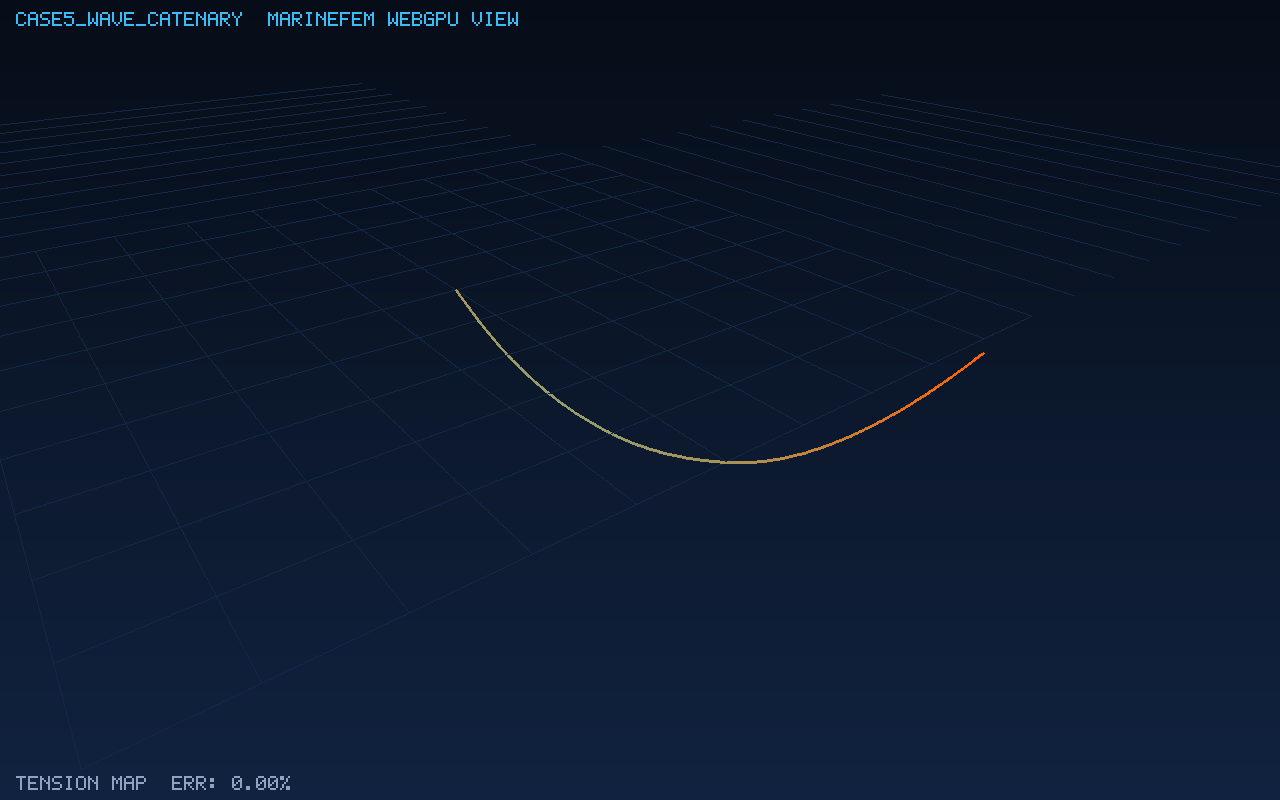
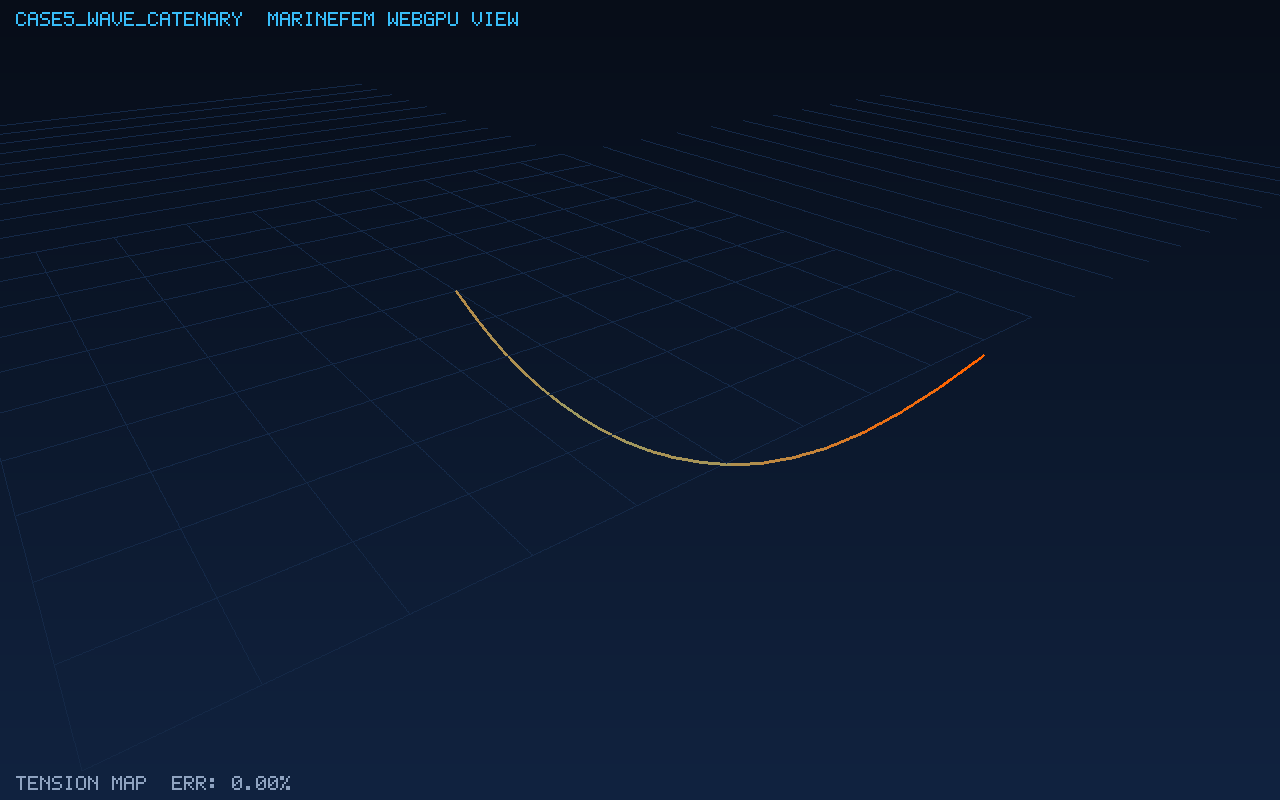
更新深化：新增4个算例与模块（简支梁多单元FEM 0.000%、单摆0.43%、海流悬缆Morison拖曳23.1%/13.2%、风载稳态倾斜0.00%）；新增多单元梁链装配(pin/fixed边界)、刚体风载+倾覆力矩+角阻尼、静力求解器水动力开关；13算例25项定量校核全部通过；19张截图更新

diff --git a/js/cases.js b/js/cases.js
@@ -1,7 +1,7 @@
 // 可视化验证算例：每个算例给出模型构建 + 解析参考 + 评估指标
 import { v3, solveLinear } from './math.js';
 import { World, Line, Beam, Body, boxMesh, initLine } from './model.js';
-import { solveStatic, solveBeamStatic, solveTimeDomain, freqDomain } from './solvers.js';
+import { solveStatic, solveBeamStatic, solveBeamChain, solveTimeDomain, freqDomain } from './solvers.js';
 import { hydrostaticForce } from './hydro.js';
 
 // 解析悬链线：以 (H, θ0) 为未知量，沿弧长积分 ODE 边值求解，再输出构型采样点
@@ -248,7 +248,7 @@ export const cases = {
       { k: 'T', label: '波周期 T (s)', v: 8 },
       { k: 'dur', label: '仿真时长 (s)', v: 40 },
       { k: 'dt', label: '步长 dt (s)', v: 0.004 },
-      { k: 'n', label: '分段数', v: 30 },
+      { k: 'n', label: '分段数', v: 20 },
     ],
     solver: 'dynamic',
     build(p) {
@@ -515,6 +515,173 @@ export const cases = {
           ['离底点 x_td (m)', xTd, xTdAna],
         ],
         info: `海床罚函数接触 + 动态松弛，悬垂段长 Ls=${Ls.toFixed(1)}m`,
+      };
+    },
+  },
+
+
+  ssBeam: {
+    name: '算例10 · 简支梁跨中集中载荷（多单元 FEM vs δ=PL³/48EI）',
+    desc: '2 个 12DoF 梁单元链式装配，两端铰支（pin），跨中集中载荷，与材料力学解析解对比。',
+    params: [
+      { k: 'L', label: '梁长 L (m)', v: 10 },
+      { k: 'P', label: '跨中载荷 P (N)', v: 1e4 },
+      { k: 'E', label: '弹性模量 E (Pa)', v: 2.1e11 },
+      { k: 'Iz', label: '抗弯惯量 Iz (m⁴)', v: 8.33e-6 },
+      { k: 'A', label: '截面积 A (m²)', v: 0.01 },
+    ],
+    solver: 'static',
+    build(p) {
+      const w = new World();
+      const n1 = w.addNode([0, 0, 0], 0, true);
+      const n2 = w.addNode([p.L / 2, 0, 0], 0, false);
+      const n3 = w.addNode([p.L, 0, 0], 0, true);
+      w._chain = { ids: [n1.id, n2.id, n3.id], beam: { E: p.E, G: 8.1e10, A: p.A, Iy: p.Iz, Iz: p.Iz, J: 2e-5 }, loads: { [n2.id]: [0, -p.P, 0] } };
+      w.beams.push(new Beam(n1.id, n2.id, w._chain.beam), new Beam(n2.id, n3.id, w._chain.beam));
+      return w;
+    },
+    run(w, p) {
+      const c = w._chain;
+      const u = solveBeamChain(w, c.ids, c.beam, c.loads, { first: 'pin', last: 'pin' });
+      const dMid = Math.abs(u.disp[1 * 6 + 1]); // 中节点 y 位移
+      const th1 = Math.abs(u.disp[0 * 6 + 5]);   // 端部转角 θy
+      return {
+        results: [
+          ['跨中挠度 δ (m)', dMid, p.P * p.L ** 3 / (48 * p.E * p.Iz)],
+          ['支座转角 θ (rad)', th1, p.P * p.L ** 2 / (16 * p.E * p.Iz)],
+        ],
+        info: `2 单元链式装配 18×18 缩减刚度，pin 边界（仅约束平动 3DoF）`,
+      };
+    },
+  },
+
+  pendulum: {
+    name: '算例11 · 单摆小幅摆动（时域 vs T=2π√(L/g)）',
+    desc: '不可伸长缆（高 EA）+ 端部集中质量，重力场中释放，由摆动时程识别周期。',
+    params: [
+      { k: 'L', label: '摆长 L (m)', v: 10 },
+      { k: 'm', label: '摆锤质量 m (kg)', v: 50 },
+      { k: 'th0', label: '初始摆角 θ0 (deg)', v: 15 },
+      { k: 'dur', label: '仿真时长 (s)', v: 30 },
+      { k: 'dt', label: '步长 dt (s)', v: 0.001 },
+    ],
+    solver: 'dynamic',
+    build(p) {
+      const w = new World();
+      w.env.depth = 1000; w.env.seaLevel = -1e6; w.env.wave = { H: 0, T: 8, dir: 0 }; w.env.current.speed = 0;
+      const th = p.th0 * Math.PI / 180;
+      const a = w.addNode([0, 0, 0], 0, true);
+      const b = w.addNode([p.L * Math.sin(th), -p.L * Math.cos(th), 0], 0, false);
+      w.lines.push(new Line([a.id, b.id], { EA: 1e8, EI: 0, w: p.m / p.L, d: 0.05, cd: 0, L0: [p.L] }));
+      return w;
+    },
+    run(w, p) {
+      const hist = solveTimeDomain(w, { T: p.dur, dt: p.dt });
+      this._lastHist = hist;
+      const xs = hist.map(h => h.nodes[1][0]);
+      const zeros = [];
+      for (let i = 1; i < xs.length; i++) if (xs[i - 1] > 0 && xs[i] <= 0) {
+        const f = -xs[i - 1] / (xs[i] - xs[i - 1]);
+        zeros.push(hist[i - 1].t + f * (hist[i].t - hist[i - 1].t));
+      }
+      const Tnum = zeros.length >= 2 ? (zeros[zeros.length - 1] - zeros[0]) / (zeros.length - 1) : NaN;
+      return {
+        results: [['摆动周期 T (s)', Tnum, 2 * Math.PI * Math.sqrt(p.L / w.env.g)]],
+        info: `半隐式 Euler，θ0=${p.th0}°，过零识别周期`,
+        plot: { label: '摆锤 x(t) (m)', xs: hist.map(h => h.t), ys: xs },
+      };
+    },
+  },
+
+  currentLine: {
+    name: '算例12 · 均匀海流中垂直悬缆（Morison 拖曳 vs 解析合力）',
+    desc: '全淹没垂直缆 + 均匀海流 U：顶端张力 = √[(湿重)² + (总拖曳)²]，顶端角 tanθ=拖曳/湿重。',
+    params: [
+      { k: 'd', label: '水深/缆长 L (m)', v: 60 },
+      { k: 'U', label: '海流速 U (m/s)', v: 1.5 },
+      { k: 'w', label: '单位干重 w (N/m)', v: 800 },
+      { k: 'diam', label: '缆径 d (m)', v: 0.2 },
+      { k: 'Cd', label: '拖曳系数 Cd', v: 1.2 },
+      { k: 'EA', label: '轴向刚度 EA (N)', v: 5e8 },
+      { k: 'n', label: '分段数', v: 20 },
+    ],
+    solver: 'dynamic',
+    build(p) {
+      const w = new World();
+      w.env.depth = p.d; w.env.seaLevel = 0; w.env.wave = { H: 0, T: 8, dir: 0 };
+      w.env.current = { speed: p.U, dir: 0, profile: 'uniform' };
+      const n = Math.round(p.n), ids = [];
+      for (let i = 0; i <= n; i++) ids.push(w.addNode([0, -p.d * i / n, 0], 0, i === 0).id);
+      w.lines.push(new Line(ids, { EA: p.EA, EI: 0, w: p.w / w.env.g, d: p.diam, cd: p.Cd, ca: 1.0, L0: Array(n).fill(p.d / n) }));
+      return w;
+    },
+    run(w, p) {
+      solveTimeDomain(w, { T: 250, dt: 0.0005, damp: 15 }); // 强阻尼动态松弛至稳态（dt 受 CFL 限制）
+      const line = w.lines[0], ids = line.nodeIds;
+      const a = w.nodes[ids[0]].p, b = w.nodes[ids[1]].p; // 固定端在首节点
+      const dd = v3.sub(b, a), l = v3.len(dd);
+      const Ttop = Math.max(0, line.EA * (l - line.L0[0]) / line.L0[0]);
+      const thTop = Math.atan2(Math.abs(dd[0]), Math.abs(dd[1]));
+      const A = Math.PI * p.diam ** 2 / 4;
+      const Wsub = (p.w - w.env.rho * w.env.g * A) * p.d; // 湿重
+      const D = 0.5 * w.env.rho * p.Cd * p.diam * p.U ** 2 * p.d; // 总拖曳
+      return {
+        results: [
+          ['顶端张力 T_top (N)', Ttop, Math.hypot(Wsub, D)],
+          ['顶端倾角 θ (rad)', thTop, Math.atan2(D, Wsub)],
+        ],
+        info: `Morison 拖曳 ½ρCd·d·U² 沿缆长积分，湿重 W=${Wsub.toFixed(0)}N，拖曳 D=${D.toFixed(0)}N`,
+      };
+    },
+  },
+
+  windHeel: {
+    name: '算例13 · 浮箱风载稳态倾斜（时域 vs tanθ=F·z/(ρgV·GM)）',
+    desc: '风载倾覆力矩 vs 水静力复原力矩平衡：稳态倾角与解析力矩平衡解对比。',
+    params: [
+      { k: 'sx', label: '箱长 X (m)', v: 20 },
+      { k: 'sz', label: '箱宽 Z (m)', v: 10 },
+      { k: 'sy', label: '箱高 Y (m)', v: 6 },
+      { k: 'm', label: '质量 m (kg)', v: 6.15e5 },
+      { k: 'U', label: '风速 U (m/s)', v: 20 },
+      { k: 'windZ', label: '风力力臂 z (m)', v: 3 },
+      { k: 'angDamp', label: '角阻尼 (N·m·s)', v: 8e6 },
+      { k: 'dur', label: '仿真时长 (s)', v: 300 },
+      { k: 'dt', label: '步长 dt (s)', v: 0.01 },
+    ],
+    solver: 'dynamic',
+    build(p) {
+      const w = new World();
+      w.env.depth = 50; w.env.wave = { H: 0, T: 8, dir: 0 }; w.env.current.speed = 0;
+      w.env.wind = { speed: p.U, dir: 0 };
+      const draft = p.m / (w.env.rho * p.sx * p.sz);
+      const body = new Body({ pos: [0, -draft + p.sy / 2, 0], mass: p.m,
+        inertia: [p.m * (p.sz ** 2 + p.sy ** 2) / 12, p.m * (p.sx ** 2 + p.sy ** 2) / 12, p.m * (p.sx ** 2 + p.sz ** 2) / 12],
+        mesh: boxMesh(p.sx, p.sy, p.sz) });
+      body.windArea = p.sx * p.sy; body.windCd = 1.0; body.windZ = p.windZ; body.angDamp = p.angDamp;
+      w.bodies.push(body);
+      return w;
+    },
+    run(w, p) {
+      const hist = solveTimeDomain(w, { T: p.dur, dt: p.dt });
+      this._lastHist = hist;
+      const R = hist[hist.length - 1].bodies[0].rot;
+      const thNum = Math.abs(Math.atan2(R[3], R[0])); // 绕 z 轴倾角
+      const V = p.m / w.env.rho;
+      const draft = V / (p.sx * p.sz);
+      const BM = (p.sz * p.sx ** 3 / 12) / V; // 绕 z(pitch) 的 BM
+      const BG = p.sy / 2 - draft / 2;         // KG=sy/2, KB=draft/2
+      const GM = BM - BG;
+      const F = 0.5 * 1.225 * 1.0 * (p.sx * p.sy) * p.U ** 2;
+      const thAna = Math.atan(F * p.windZ / (w.env.rho * w.env.g * V * GM));
+      const ths = hist.slice(Math.floor(hist.length / 2)).map(h => Math.abs(Math.atan2(h.bodies[0].rot[3], h.bodies[0].rot[0])));
+      return {
+        results: [
+          ['稳态倾角 θ (rad)', thNum, thAna],
+          ['后半程倾角波动 (rad)', Math.max(...ths) - Math.min(...ths), 0],
+        ],
+        info: `风载 F=${F.toFixed(0)}N，GM=${GM.toFixed(3)}m，ρgV·GM=${(w.env.rho * w.env.g * V * GM / 1e6).toFixed(2)}e6 N·m`,
+        plot: { label: '倾角 θ(t) (rad)', xs: hist.map(h => h.t), ys: hist.map(h => Math.atan2(h.bodies[0].rot[3], h.bodies[0].rot[0])) },
       };
     },
   },

diff --git a/js/solvers.js b/js/solvers.js
@@ -86,7 +86,7 @@ export function totalLineForces(world, line, t, withHydro = true) {
 }
 
 // ---------- 静力求解（Newton + 数值雅可比，仅自由节点） ----------
-export function solveStatic(world, { maxIter = 300, tol = 1e-6 } = {}) {
+export function solveStatic(world, { maxIter = 300, tol = 1e-6, hydro = false } = {}) {
   for (const line of world.lines) initLine(world, line);
   const free = [];
   world.nodes.forEach((n, i) => { if (!n.fixed) free.push(i); });
@@ -96,7 +96,7 @@ export function solveStatic(world, { maxIter = 300, tol = 1e-6 } = {}) {
     free.forEach((ni, k) => { world.nodes[ni].p = [x[3 * k], x[3 * k + 1], x[3 * k + 2]]; });
     const res = [];
     for (const line of world.lines) {
-      const f = totalLineForces(world, line, 0, false);
+      const f = totalLineForces(world, line, 0, hydro);
       free.forEach(ni => res.push(f[ni][0], f[ni][1], f[ni][2]));
     }
     return res;
@@ -131,6 +131,78 @@ export function beamStiffLocal(L, E, A, G, J, Iy, Iz) {
   for (let i = 0; i < 4; i++) for (let j = 0; j < 4; j++) k[idy[i]][idy[j]] = EIy * by[i][j];
   k[3][3] = GJ; k[3][9] = -GJ; k[9][3] = -GJ; k[9][9] = GJ;
   return k;
+}
+
+// 单个梁单元的全局 12×12 刚度 + 单元长度
+function beamElemGlobal(p1, p2, beam) {
+  const L = v3.dist(p1, p2);
+  const ex = v3.norm(v3.sub(p2, p1));
+  let ey = Math.abs(ex[1]) > 0.99 ? [1, 0, 0] : [0, 1, 0];
+  const ez = v3.norm(v3.cross(ex, ey)); ey = v3.cross(ez, ex);
+  const T = [
+    [ex[0], ey[0], ez[0], 0, 0, 0, 0, 0, 0, 0, 0, 0],
+    [ex[1], ey[1], ez[1], 0, 0, 0, 0, 0, 0, 0, 0, 0],
+    [ex[2], ey[2], ez[2], 0, 0, 0, 0, 0, 0, 0, 0, 0],
+    [0, 0, 0, ex[0], ey[0], ez[0], 0, 0, 0, 0, 0, 0],
+    [0, 0, 0, ex[1], ey[1], ez[1], 0, 0, 0, 0, 0, 0],
+    [0, 0, 0, ex[2], ey[2], ez[2], 0, 0, 0, 0, 0, 0],
+    [0, 0, 0, 0, 0, 0, ex[0], ey[0], ez[0], 0, 0, 0],
+    [0, 0, 0, 0, 0, 0, ex[1], ey[1], ez[1], 0, 0, 0],
+    [0, 0, 0, 0, 0, 0, ex[2], ey[2], ez[2], 0, 0, 0],
+    [0, 0, 0, 0, 0, 0, 0, 0, 0, ex[0], ey[0], ez[0]],
+    [0, 0, 0, 0, 0, 0, 0, 0, 0, ex[1], ey[1], ez[1]],
+    [0, 0, 0, 0, 0, 0, 0, 0, 0, ex[2], ey[2], ez[2]]];
+  const kl = beamStiffLocal(L, beam.E, beam.A, beam.G, beam.J, beam.Iy, beam.Iz);
+  const Tt = T[0].map((_, c) => T.map(r => r[c]));
+  const kg = Array.from({ length: 12 }, () => new Array(12).fill(0));
+  for (let i = 0; i < 12; i++) for (let j = 0; j < 12; j++)
+    for (let a = 0; a < 12; a++) for (let b = 0; b < 12; b++)
+      kg[i][j] += T[i][a] * kl[a][b] * Tt[b][j];
+  return { kg, L, T };
+}
+
+// 多单元梁链 FEM 静力装配：ids 节点链，bc={first:'pin'|'fixed', last:'pin'|'fixed'|'free'}
+// loads: {nodeId:[Fx,Fy,Fz]}；beam.q 为全局 -y 均布载荷(N/m)（每单元一致节点载荷，沿梁轴 x 假设）
+export function solveBeamChain(world, ids, beam, loads, bc = { first: 'pin', last: 'pin' }) {
+  const ne = ids.length - 1, ndof = ids.length * 6;
+  const K = Array.from({ length: ndof }, () => new Array(ndof).fill(0));
+  const F = new Array(ndof).fill(0);
+  for (let e = 0; e < ne; e++) {
+    const { kg, L } = beamElemGlobal(world.nodes[ids[e]].p, world.nodes[ids[e + 1]].p, beam);
+    const dofs = [];
+    for (let n = 0; n < 2; n++) for (let d = 0; d < 6; d++) dofs.push((e + n) * 6 + d);
+    for (let i = 0; i < 12; i++) for (let j = 0; j < 12; j++) K[dofs[i]][dofs[j]] += kg[i][j];
+    if (beam.q) { // 一致节点载荷（局部 w,θ 平面 → 全局 y 向，假设梁沿 x）
+      const p = -beam.q;
+      for (const n of [e, e + 1]) {
+        F[n * 6 + 1] += p * L / 2;
+      }
+      F[e * 6 + 5] += p * L * L / 12;
+      F[(e + 1) * 6 + 5] += -p * L * L / 12;
+    }
+  }
+  for (const idStr in loads) {
+    const gi = ids.indexOf(Number(idStr));
+    if (gi < 0) continue;
+    const l = loads[idStr];
+    F[gi * 6] += l[0]; F[gi * 6 + 1] += l[1]; F[gi * 6 + 2] += l[2];
+  }
+  // 边界条件
+  const fixedDofs = new Set();
+  const applyBC = (gi, mode) => {
+    if (mode === 'fixed') for (let d = 0; d < 6; d++) fixedDofs.add(gi * 6 + d);
+    else if (mode === 'pin') for (let d = 0; d < 3; d++) fixedDofs.add(gi * 6 + d);
+  };
+  applyBC(0, bc.first || 'pin');
+  applyBC(ids.length - 1, bc.last || 'pin');
+  const free = [];
+  for (let d = 0; d < ndof; d++) if (!fixedDofs.has(d)) free.push(d);
+  const Kred = free.map(i => free.map(j => K[i][j]));
+  const bred = free.map(i => F[i]);
+  const u = solveLinear(Kred, bred);
+  const disp = new Array(ndof).fill(0);
+  free.forEach((d, k) => disp[d] = u[k]);
+  return { disp, ids };
 }
 
 export function solveBeamStatic(world, beam, loads) {
@@ -209,6 +281,14 @@ export function solveTimeDomain(world, { T = 20, dt = 0.005, damp = 0 } = {}) {
       }
       // 线性辐射阻尼（可选，body.cDamp）
       if (body.cDamp) body.f = v3.sub(body.f, v3.scale(body.vel, body.cDamp));
+      // 风载：F=½ρ_air·Cd·A·U²，作用于质心上方 windZ 处（产生倾覆力矩）
+      if (world.env.wind.speed > 0 && body.windArea) {
+        const Fw = 0.5 * 1.225 * (body.windCd || 1) * body.windArea * world.env.wind.speed ** 2;
+        const dir = [Math.cos(world.env.wind.dir), 0, Math.sin(world.env.wind.dir)];
+        const F = v3.scale(dir, Fw);
+        body.f = v3.add(body.f, F);
+        body.mom = v3.add(body.mom, v3.cross([0, body.windZ || 0, 0], F));
+      }
     }
     // 积分
     for (const n of world.nodes) {
@@ -226,6 +306,7 @@ export function solveTimeDomain(world, { T = 20, dt = 0.005, damp = 0 } = {}) {
       const a = v3.scale(v3.add(b.f, b._hydF || [0, 0, 0]), 1 / b.mass);
       b.vel = v3.add(b.vel, v3.scale(a, dt));
       b.pos = v3.add(b.pos, v3.scale(b.vel, dt));
+      if (b.angDamp) b.mom = v3.sub(b.mom, v3.scale(b.angVel, b.angDamp)); // 角阻尼
       const am = v3.scale(v3.add(b.mom, b._hydM || [0, 0, 0]), 1 / (b.inertia[0] || 1));
       b.angVel = v3.add(b.angVel, v3.scale(am, dt));
       const w = b.angVel, R = b.rot;
